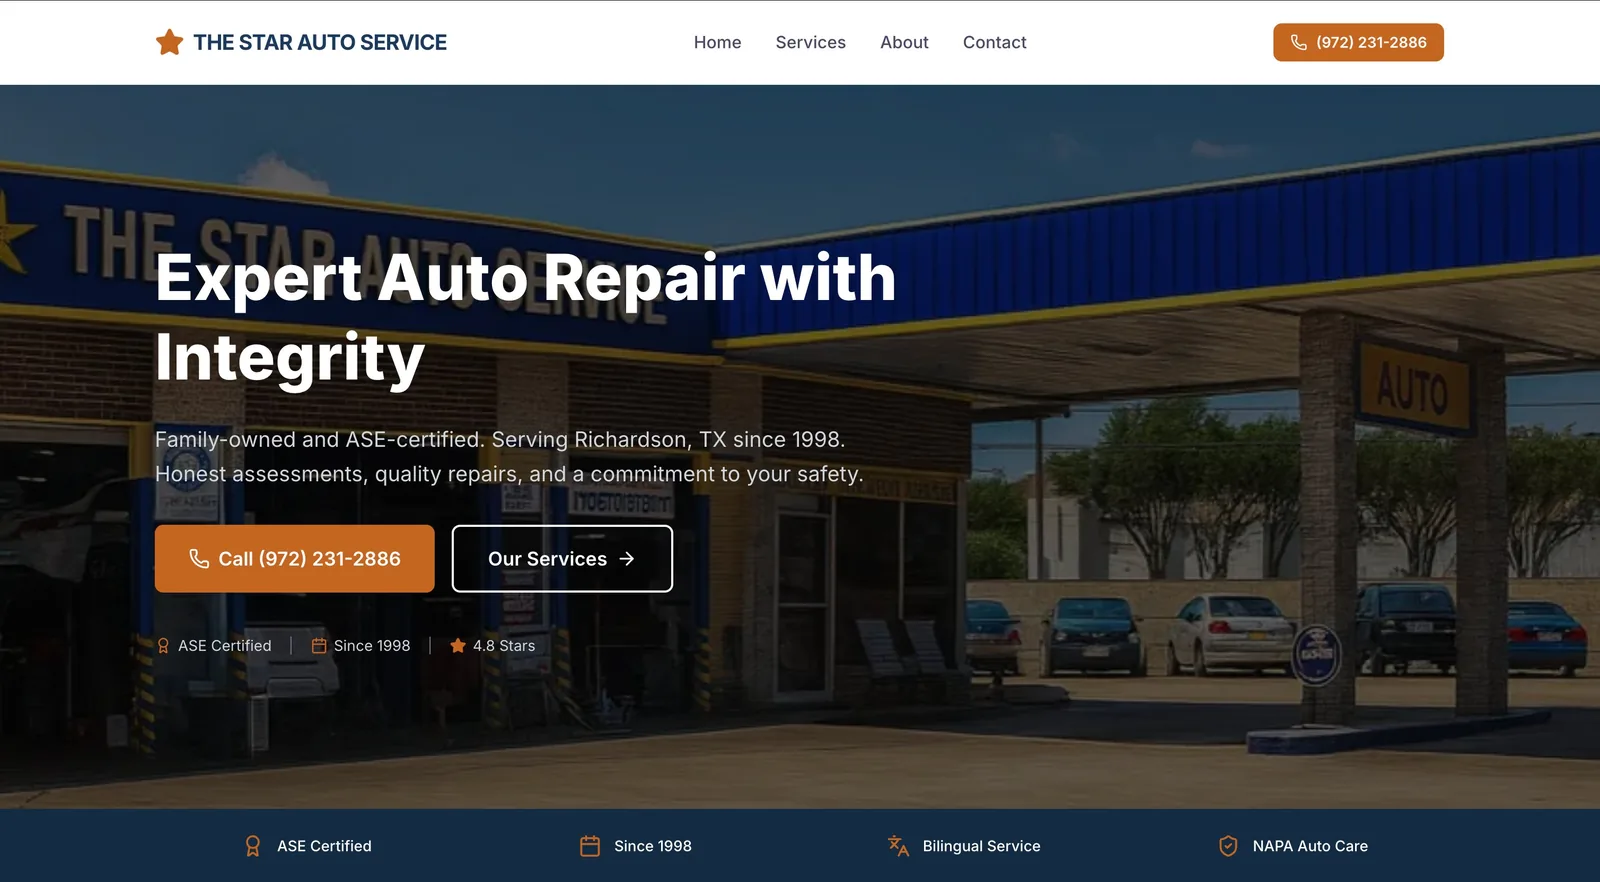
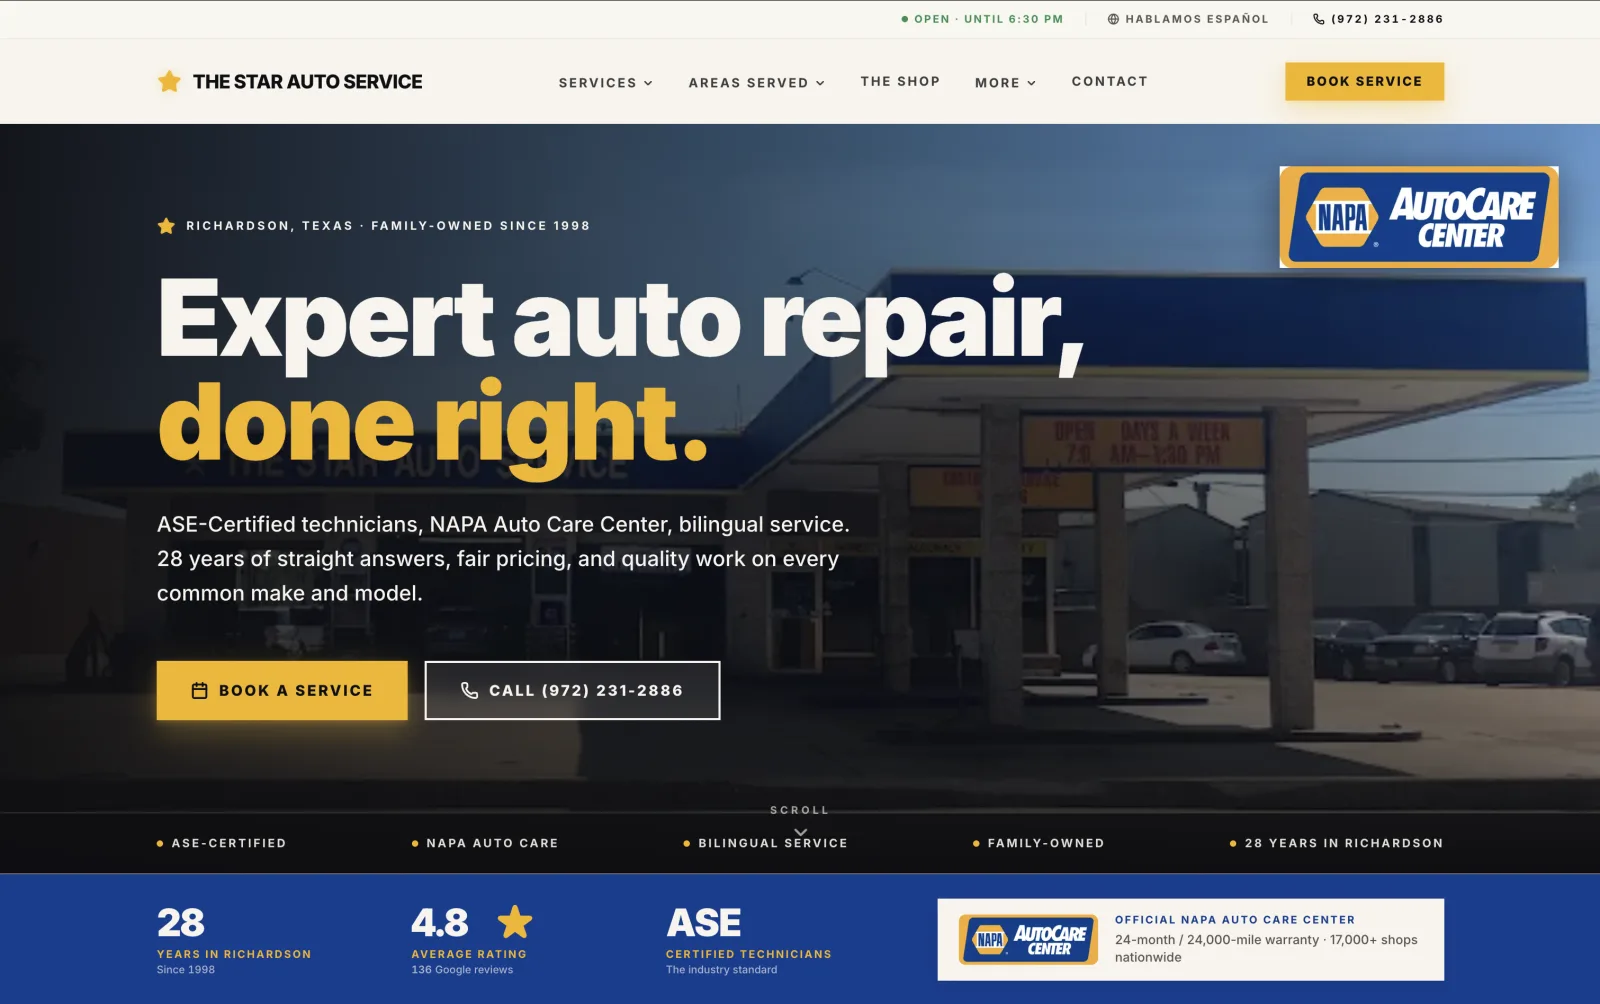
chore(work): swap Star Auto card preview to current hero screenshot
Replaces public/images/case-studies/star-auto-desktop.webp in place with
the current "Expert auto repair, done right." hero shot. Source PNG
3022x1896 -> webp 1600x1004 at q=82 (81 KB). Same path and filename, so
lib/work-data.ts and the Work card render path required no code change.

diff --git a/docs/ai/session-handoff.md b/docs/ai/session-handoff.md
@@ -6,7 +6,37 @@ Live snapshot of what the next session needs. Older sessions live under
 verbatim record of every session entry that was below this header before
 archive.
 
-## Most Recent Session: April 28, 2026 -- "Operations Cockpit" rebranded to "Canopy"; surgical rename across DBJ marketing site + new Canopy starter repo
+## Most Recent Session: April 29, 2026 -- Star Auto work-card hero swapped to current "Expert auto repair, done right" screenshot
+
+### What shipped
+
+The Work page card for Star Auto Service was using an older desktop screenshot. Joshua provided the current hero shot (the gold-on-dark "Expert auto repair, done right." headline with the NAPA AutoCare badge in the upper right and the shop's actual storefront photo as the bg). Replaced the existing webp asset in place so no code or data changed.
+
+### Files changed (1)
+
+- **`public/images/case-studies/star-auto-desktop.webp`**: replaced. Source was a 3022x1896 PNG screenshot (3.46 MB). Resized to 1600px wide (1600x1004, preserving native aspect) and re-encoded as webp at q=82 via `cwebp`. Final size 81 KB (down from the prior 86 KB at 1600x882). Filename and path identical, so `lib/work-data.ts:122` (the `image` field on the `star-auto-service` `ProjectDetail`) needed no edit.
+
+### Why no aspect/code changes
+
+The Work-page card renders the image inside `aspect-[3/2]` with `object-cover object-top` (`app/(marketing)/work/WorkContent.tsx:71-78`). The new image's native aspect is ~1.594 (closer to 3:2 than the prior 1.814), so object-cover crops a slightly narrower band off the bottom than before -- the hero headline, NAPA badge, and "Book a Service" / "Call" buttons all stay visible. The bottom stats band (28 / 4.8 / ASE / NAPA banner) gets cropped at the card edge, which is consistent with how the prior screenshot behaved.
+
+### Verification
+
+- `npx tsc --noEmit`: clean.
+- `npm run lint`: clean (exit 0).
+- `magick identify` on the new file: `WEBP 1600x1004 8-bit sRGB 81174B`.
+
+### Next recommended task
+
+After Vercel rebuild settles (1-3 min), incognito-load `/work` and confirm: (1) the Star Auto card preview shows the gold "Expert auto repair, done right." headline, (2) the NAPA AutoCare badge is visible in the upper right of the card, (3) the image isn't visibly stretched or letterboxed, (4) the card hover scale animation still plays cleanly. If the bottom-of-screenshot stats band feels too cropped, regenerate the webp from the same source PNG with a taller crop (or output at 1600x1066 -- 3:2 exact -- via `cwebp -crop` before resize) and re-replace.
+
+### Final state (post-commit)
+
+Will populate after this commit lands.
+
+---
+
+## Previous Session: April 28, 2026 -- "Operations Cockpit" rebranded to "Canopy"; surgical rename across DBJ marketing site + new Canopy starter repo
 
 ### What shipped
 
